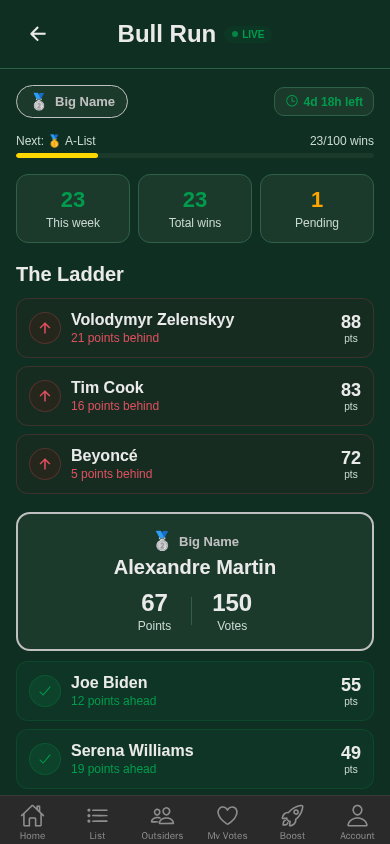
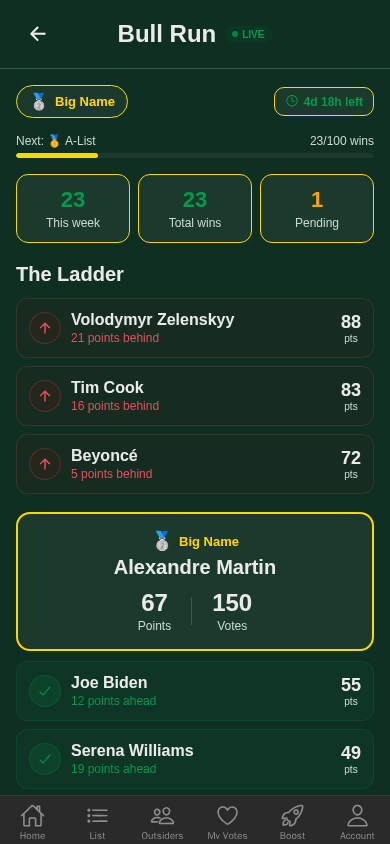
auto-commit for 344770a3-bd70-4c20-aa2e-a4d871984f74

diff --git a/frontend/app/bullrun.tsx b/frontend/app/bullrun.tsx
@@ -96,9 +96,9 @@ function TimerBadge({ days, hours }) {
 function RankBadge({ rank }) {
   const config = RANK_CONFIG[rank] || RANK_CONFIG.none;
   return (
-    <View style={[styles.rankBadge, { borderColor: config.color }]}>
+    <View style={styles.rankBadge}>
       <Text style={styles.rankEmoji}>{config.emoji}</Text>
-      <Text style={[styles.rankName, { color: config.color }]}>{config.name}</Text>
+      <Text style={[styles.rankName, { color: PALETTE.gold }]}>{config.name}</Text>
     </View>
   );
 }
@@ -155,10 +155,10 @@ function LadderItem({ person, index, isTarget }) {
 function UserCard({ user, rank }) {
   const config = RANK_CONFIG[rank] || RANK_CONFIG.none;
   return (
-    <View style={[styles.userCard, { borderColor: config.color }]}>
+    <View style={styles.userCard}>
       <View style={styles.userCardTop}>
         <Text style={{ fontSize: 18 }}>{config.emoji}</Text>
-        <Text style={[styles.userCardRank, { color: config.color }]}>{config.name}</Text>
+        <Text style={[styles.userCardRank, { color: PALETTE.gold }]}>{config.name}</Text>
       </View>
       <Text style={styles.userCardName} numberOfLines={1} ellipsizeMode="tail">{user.name}</Text>
       <View style={styles.userCardStats}>
@@ -458,7 +458,7 @@ const styles = StyleSheet.create({
     flexDirection: "row", alignItems: "center", gap: 6,
     borderWidth: 1, borderRadius: 20,
     paddingHorizontal: 12, paddingVertical: 6,
-    backgroundColor: PALETTE.card,
+    backgroundColor: PALETTE.card, borderColor: PALETTE.gold,
   },
   rankEmoji: { fontSize: 16 },
   rankName: { fontSize: 13, fontWeight: "700" },
@@ -468,7 +468,7 @@ const styles = StyleSheet.create({
     flexDirection: "row", alignItems: "center", gap: 5,
     backgroundColor: PALETTE.card,
     paddingHorizontal: 10, paddingVertical: 6,
-    borderRadius: 10, borderWidth: 1, borderColor: PALETTE.border,
+    borderRadius: 10, borderWidth: 1, borderColor: PALETTE.gold,
   },
   timerText: { fontSize: 12, fontWeight: "600", color: PALETTE.green },
 
@@ -485,7 +485,7 @@ const styles = StyleSheet.create({
   statCard: {
     flex: 1, alignItems: "center",
     backgroundColor: PALETTE.card, borderRadius: 12,
-    paddingVertical: 12, borderWidth: 1, borderColor: PALETTE.border,
+    paddingVertical: 12, borderWidth: 1, borderColor: PALETTE.gold,
   },
   statNum: { fontSize: 22, fontWeight: "700", color: PALETTE.green },
   statLabel: { fontSize: 12, color: PALETTE.subtext, marginTop: 3, fontWeight: "500" },
@@ -521,6 +521,7 @@ const styles = StyleSheet.create({
     backgroundColor: PALETTE.card, borderRadius: 14,
     padding: 16, marginVertical: 10,
     borderWidth: 2, alignItems: "center",
+    borderColor: PALETTE.gold,
   },
   userCardTop: { flexDirection: "row", alignItems: "center", gap: 6, marginBottom: 4 },
   userCardRank: { fontSize: 13, fontWeight: "700" },
